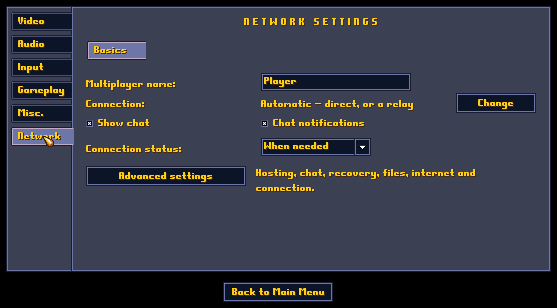
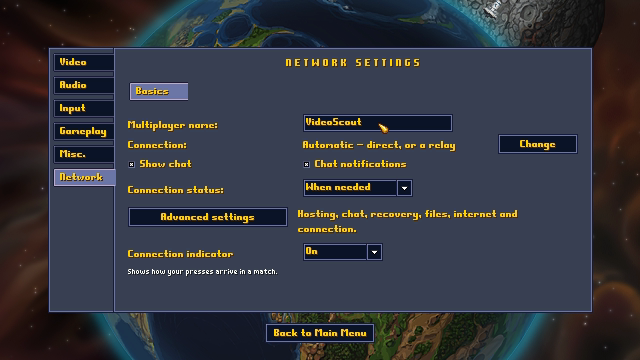
Update the README and the menu pictures for the current build

diff --git a/README.md b/README.md
@@ -2,9 +2,9 @@
 
 # Cortex Modern
 
-**Cortex Command with online multiplayer that feels like single player. Any OS with any OS.**
+**Cortex Command with online multiplayer. Any OS with any OS.**
 
-A community fork of the [Cortex Command Community Project](https://github.com/cortex-command-community/Cortex-Command-Community-Project) that adds internet play: host or join from the main menu, your own soldier answers instantly, nobody waits for anybody's connection, and the mods you already have keep working.
+A fork of the [Cortex Command Community Project](https://github.com/cortex-command-community/Cortex-Command-Community-Project) that adds internet play. Host or join from the main menu, keep the mods you already have.
 
 [![Status: Alpha](https://img.shields.io/badge/status-alpha-orange)](#whats-in-alpha-1)
 [![Version](https://img.shields.io/badge/version-0.1.0--alpha.1-blue)](VERSION.txt)
@@ -18,39 +18,34 @@ A community fork of the [Cortex Command Community Project](https://github.com/co
 ![Meson](https://img.shields.io/badge/Meson-macOS%20%2F%20Linux%20build-39207C?logo=meson&logoColor=white)
 ![MSBuild](https://img.shields.io/badge/Visual%20Studio-Windows%20build-5C2D91?logo=visualstudio&logoColor=white)
 
-<img src="docs/images/match.gif" alt="A two-player match: the network overlay in the corner, the players panel opening on F6" width="800">
+<img src="docs/images/match.gif" alt="A two-player match with the connection badge and the status box in the corner" width="800">
 
-<sub>Recorded by the project's own test recorder on the alpha build. Top right: the network overlay (input delay, route, pace).</sub>
+<sub>Recorded by the game's own frame capture on the current build.</sub>
 
 </div>
 
 ---
 
 > [!NOTE]
-> **Alpha 1 status, October 4.** Playable today, built from source on Windows, macOS and Linux. The full acceptance run on this exact build has not finished yet.
+> **Status, October 10.** Builds and plays on Windows, macOS and Linux. The netcode holds: four machines on three operating systems, one of them on a phone hotspot through the relay, ran 23 minutes with every machine hash-identical every tick at 60 ticks per second. What is still rough is the match itself: placing a brain with the mouse, the buy menu, the rematch screen. Those fixes and the "one laggy player must not stall the others" work are in progress on the `cm-wip/*` branches and land on `cm-dev` as they pass. The first alpha is tagged when a full game over the relay passes with all of that in.
 >
-> **Being fixed right now**
-> - A join refused as "modules" does not say which mod differs.
-> - Memory use in hour-long persistent worlds is being measured.
->
-> **Not proven yet**
-> - On a phone hotspot, two-player matches work on LTE, both with Automatic and with Relay only. Four players, a relay login expiring mid-match and the host leaving mid-match are not proven over mobile data yet.
+> The current build is `cm-dev`; `main` is the snapshot of October 4 and catches up when that first game passes. The pictures below are from `cm-dev`.
 >
 > The whole list is in [Known issues](#known-issues).
 
-## What's new
+## What you get
 
-| | | |
-|---|---|---|
-| 🌐 **Host or join from the menu** | A built-in game list. Host a game, pick it from the list on the other machine, play. No port forwarding to set up. | [How to](#play-in-five-minutes) |
-| ⚡ **Feels like single player** | Your own soldier answers the instant you press. A player with a bad connection or a slow machine never slows anyone else down. | [How it works](#how-it-works) |
-| 🖥 **Windows, macOS and Linux in one match** | Every machine runs the exact same simulation, bit for bit. Mixed-OS matches are a normal case, not a special one. | [How it works](#how-it-works) |
-| 🔁 **Leave and come back** | Drop out, crash, or close the game: the AI holds your seat and your soldiers keep fighting. Rejoin while the match runs. | [Menus](#the-new-menus-and-screens) |
-| 👑 **Host moderation** | The Players panel lists every player, a page at a time when they do not all fit, and why a place is held. While the match runs the host can hand a held seat to a newcomer, remove or ban a player. Nobody loses a seat without the host's click. | [Menus](#the-new-menus-and-screens) |
-| 💾 **Autosave and resume** | The host sets a checkpoint interval for the whole match. A match can be resumed from disk by everyone, even after the host's machine died. | [Menus](#the-new-menus-and-screens) |
-| 🌍 **Persistent worlds** | A match that keeps running while players join and leave. Latecomers watch, then take a seat when one opens. | [How it works](#how-it-works) |
-| 🧩 **Your mods, unchanged** | Mods run exactly as before. Void Wanderers is part of the test set. | [Mods](#mods) |
-| 🔌 **Direct connection first, relay when needed** | Direct peer-to-peer whenever the internet allows it. When it does not, a Cloudflare relay takes over by itself. Nothing to enter. | [Connections](#connections-direct-relay-and-your-options) |
+| | |
+|---|---|
+| **Host or join from the menu** | A built-in game list. Host, pick the game on the other machine, play. No port forwarding. |
+| **Your soldier answers right away** | Your own soldier is drawn from a preview that runs ahead of the network, so a press shows the instant you make it. |
+| **Any OS with any OS** | Every machine runs the exact same simulation, bit for bit. Windows, macOS and Linux in one match is the normal case. |
+| **Leave and come back** | Drop out, crash, close the game: the AI holds your seat and your soldiers keep fighting. Rejoin while the match runs. |
+| **The host stays in charge** | The Players panel shows every seat and why it is held. The host can hand a held seat to a newcomer, kick or ban. Nobody loses a seat without the host's click. |
+| **Autosave and resume** | The host sets a checkpoint interval for the whole match. Everyone can resume it from disk later, even if the host's machine died. |
+| **Persistent worlds** | A match that keeps running while people join and leave. Latecomers watch, then take a seat when one opens. |
+| **Your mods, unchanged** | Mods run as they always did. Void Wanderers is part of the test set. |
+| **Direct first, relay when needed** | Peer-to-peer whenever the internet allows it. When it does not, a Cloudflare relay takes over on its own. Nothing to enter. |
 
 ---
 
@@ -58,18 +53,16 @@ A community fork of the [Cortex Command Community Project](https://github.com/co
 
 > No second player handy? [Run a host and a client side by side on one Windows PC](docs/handtest.md).
 >
-> **Both players need the same Cortex Modern version and the same mods.** The version is printed at the bottom left of the main menu and in `VERSION.txt` beside the game. If a join is refused as "modules", the two `Data` folders differ: the same mods in the same versions on both sides fixes it.
->
-> <img src="docs/images/version-line.png" alt="The version line on the main menu: Community Project v7.0.0, multiplayer 0.1.0-alpha.1 (protocol 5)" width="300">
+> **Both players need the same version and the same mods.** The version is printed at the bottom left of the main menu and in `VERSION.txt` beside the game. If a join is refused as "modules", the two `Data` folders differ: same mods, same versions, on both sides.
 
 <details>
 <summary><b>Windows</b></summary>
 
-1. Get the build. Packaged alpha builds appear on the [Releases](https://github.com/Madreag/cortex-modern/releases) page as they are cut; until then, build from source ([Building](#building)) or take the zip a friend built from the same version.
-2. Unpack anywhere. Start `Cortex Command.exe`. If SmartScreen asks, choose **More info → Run anyway**.
-3. **Host:** Main Menu → **Multiplayer** → type your name → **Host Game** → set the activity, scene and the number of players → **Create Lobby**.
+1. Get the build. Packaged alphas appear on the [Releases](https://github.com/Madreag/cortex-modern/releases) page as they are cut; until then build from source ([Building](#building)) or take a zip a friend built from the same version.
+2. Unpack anywhere, start `Cortex Command.exe`. If SmartScreen asks, **More info → Run anyway**.
+3. **Host:** Main Menu → **Multiplayer** → type your name → **Host Game** → pick the activity, scene and number of players → **Create Lobby**.
 4. **Join:** Main Menu → **Multiplayer** → type your name → **Join Game** → pick the match from the list (or type the host's address and port) → **Connect**.
-5. When everyone is in the lobby, each joining player presses **Ready**, then the host presses **Start Match**. In the match, **F6** (or **Players** in the pause menu) opens the Players panel; the status box in the corner says what is happening, and with the detailed network statistics setting on, it adds input delay, round trip and pace.
+5. In the lobby every joining player presses **Ready**, then the host presses **Start Match**. In the match, **F6** (or **Players** in the pause menu) opens the Players panel. The badge in the corner shows your connection (Good with your round trip, Unsteady, Inputs affected, Reconnecting), and the status box says what is happening, with input delay, round trip and pace when it is set to show them.
 
 </details>
 
@@ -78,7 +71,7 @@ A community fork of the [Cortex Command Community Project](https://github.com/co
 
 1. Get the build (see Windows, step 1). Unpack the app.
 2. On first launch macOS may block an unsigned app: **System Settings → Privacy & Security → Open Anyway**, then launch again.
-3. Host or join exactly as on Windows: **Multiplayer → Host Game** or **Join Game**.
+3. Host or join exactly as on Windows.
 4. The first time you host, macOS asks whether the game may accept incoming connections: allow it.
 
 </details>
@@ -87,50 +80,50 @@ A community fork of the [Cortex Command Community Project](https://github.com/co
 <summary><b>Linux</b></summary>
 
 1. Get the build (see Windows, step 1). Unpack the tarball; if the executable lost its permission, `chmod +x CortexCommand`.
-2. Launch from the unpacked folder so the game finds its `Data` directory.
-3. Host or join exactly as on Windows: **Multiplayer → Host Game** or **Join Game**.
+2. Launch from the unpacked folder so the game finds `Data`.
+3. Host or join exactly as on Windows.
 
 </details>
 
-**Troubleshooting**
+**If something is off**
 
-- *Nobody can see my match.* The game list is served by the directory service at `directory.broserver.com`. If it is unreachable, the host can share its address and port, and players type them into Join Game.
-- *We connect, but the status box says "connected through a relay".* With **Connection** on *Automatic*, your internet did not allow a direct route, so the game connected through the relay instead; with *Relay only* chosen, it always connects this way. It costs nothing. To insist on direct, set **Settings → Network → Connection** to *Direct only* on both machines (it may then fail to connect).
+- *Nobody can see my match.* The game list comes from the directory service at `directory.broserver.com`. If it is down, the host shares its address and port and players type them into Join Game.
+- *The status box says the connection is relayed.* With **Connection** on *Automatic*, no direct route came through, so the game went over the relay. It costs nothing. To insist on direct, set **Settings → Network → Connection** to *Direct only* on both machines (then it may fail to connect at all).
 - *A player's soldier is "held".* Their inputs stopped arriving (lag spike, alt-tab, a crash). The AI plays the seat until they are back. The Players panel (F6) says why.
-- *Everything got slower when someone joined.* It should not. If it did, it is a bug: see [Reporting a bug](#reporting-a-bug).
+- *Everything slowed down when someone joined.* It should not. That is a bug: see [Reporting a bug](#reporting-a-bug).
 
 ---
 
-## The new menus and screens
+## The menus and screens
 
 | | |
 |---|---|
-| <img src="docs/images/main-menu.jpg" alt="The main menu with Multiplayer" width="440"> | **Main menu.** **Multiplayer** sits between Scenario Battle and Saved Games. The version line at the bottom left names the base game, the multiplayer version and the network protocol. |
-| <img src="docs/images/multiplayer.png" alt="Multiplayer: your name, Host a Game and Join a Game" width="440"> | **Multiplayer.** Your name, then **Host a Game** and **Join a Game**, with **Host Saved Match** and **Replays** below. When a match of yours is still running, a block above them offers **Rejoin Match**: your seat is held until the host gives it away. |
-| <img src="docs/images/host-game.png" alt="Host a Game: activity, scene, mode and human players" width="440"> | **Host a Game.** Four rows: the activity with the first line of what it is, the scene, the mode in plain words and how many people play, you included. One line sums the match up and says who can find it. **Create Lobby** opens it; the port, the delay, the router and the listing are behind **Advanced**. |
-| <img src="docs/images/lobby.png" alt="The lobby: players, their state and what happens next" width="440"> | **Lobby.** Every player and AI team with its state, and one sentence saying who is waited for. Players press **Ready** and can take it back. The host presses **Start Match**: at once when everyone is ready, otherwise a 30-second countdown everyone sees starts, and the host can cancel it. A line says who can find the game. |
-| <img src="docs/images/start-countdown.png" alt="The lobby counting down to the start, with Cancel Start" width="440"> | **Start countdown.** The host pressed **Start Match** before everyone was ready: every screen counts down from 30 seconds; the host's names who is still to press **Ready**, and a player who has not pressed it is asked to. The host's button reads **Cancel Start** until the start goes out to the players; opening **Edit setup** stops the count, and the last **Ready** starts the match at once. |
-| <img src="docs/images/join-game.png" alt="Join a Game: the game list" width="440"> | **Join a Game.** The screen is the game list: each game's host, activity and players, whether it is on this network or the internet, and the reason when it cannot be joined. Select a game and press **Join Game**, or double-click it. **Join by address** takes a host's address and port. |
-| <img src="docs/images/seat-request.png" alt="Asking for a seat when every seat is held" width="440"> | **Asking for a seat.** When every seat of a running world is held for its returning players, a newcomer is told so and offered **Apply for a Slot** (the host decides) or **Wait for a Slot**, which counts down while it waits. A player whose own seat is held is offered **Apply to Rejoin**. |
-| <img src="docs/images/host-options-seats.png" alt="Advanced: Players" width="440"> | **Advanced.** The host's full options, on seven pages chosen on the left: Players, Rules, Connection, Timing, Recovery, Files and Session. Changes wait for **Apply**; **Back** leaves them; on the Connection, Timing, Recovery, Files and Session pages a list marks its standard choice **(default)**. **Players** lists each seat with its team and state; **Details** opens a seat. |
-| <img src="docs/images/host-options-connection.png" alt="Advanced: Connection" width="440"> | **Advanced: Connection.** **Game listing** (Public, Unlisted or Local discovery, each saying who can find the game), asking your router to open the port (on by default), the port, **Automatic direct connection** for players behind home routers, and **Relay fallback** when no direct route works. Every row has a one-line hint naming its consequence. |
-| <img src="docs/images/recovery.png" alt="Advanced: Recovery" width="440"> | **Advanced: Recovery.** Automatic match repair; the **Return window** for a dropped player; authenticated rejoin; **Autosave checkpoints** every 60 seconds to 60 minutes, or off; **World history** and the **Catch-up limit** for persistent worlds; **Repair match now** while a match runs. |
-| <img src="docs/images/settings-network.png" alt="Settings: Network, the first view" width="440"> | **Settings → Network.** Your name, your **Connection** (Automatic: direct, or a relay when no direct route works) with **Change**, the chat switches and when the connection status shows. **Advanced settings** opens the rest: delay, chat, recovery, files, the online game list, the STUN list and your own relay. |
-| <img src="docs/images/net-overlay.png" alt="The in-match network overlay" width="440"> | **In the match.** The overlay: input delay in ticks and milliseconds, your route (*via direct* or *via relay*), the slowest peer's round trip, and the pace. **F6** opens the seats panel: held seats and why, applications for a seat, kick and ban. |
-| <img src="docs/images/match-seats.jpg" alt="The seats panel open during a match" width="440"> | **The seats panel.** The match continues while it is open. Chat lines sit at the top of the screen; a toast names what just happened (a player joined, the match paused). |
+| <img src="docs/images/main-menu.png" alt="The main menu with Multiplayer" width="440"> | **Main menu.** **Multiplayer** sits between Scenario Battle and Saved Games. The version line at the bottom left names the base game, the multiplayer version and the network protocol (7 right now). |
+| <img src="docs/images/multiplayer.png" alt="Multiplayer: your name, Host a Game and Join a Game" width="440"> | **Multiplayer.** Your name, then **Host a Game** and **Join a Game**, with **Host Saved Match** and **Replays** below. If a match of yours is still running, **Rejoin Match** appears above them: your seat is held until the host gives it away. |
+| <img src="docs/images/host-game.png" alt="Host a Game: activity, scene, mode and human players" width="440"> | **Host a Game.** Four rows: the activity, the scene, the mode, how many people play. One line sums the match up and says who can find it. **Create Lobby** opens it; the port, the delay, the router and the listing sit behind **Advanced**. |
+| <img src="docs/images/lobby.png" alt="The lobby: players, their state and what happens next" width="440"> | **Lobby.** Every player and AI team with its state, and one line saying who is waited for. Players press **Ready** and can take it back. The host presses **Start Match**: at once when everyone is ready, otherwise a 30-second countdown that everyone sees and the host can cancel. |
+| <img src="docs/images/start-countdown.png" alt="The lobby counting down to the start, with Cancel Start" width="440"> | **Start countdown.** The host pressed **Start Match** before everyone was ready. Every screen counts down from 30; the host's button reads **Cancel Start** until the start goes out; the last **Ready** starts the match at once. |
+| <img src="docs/images/join-game.png" alt="Join a Game: the game list" width="440"> | **Join a Game.** The game list: host, activity, players, LAN or internet, and the reason when a game cannot be joined. Select one and press **Join Game**, or double-click it. **Join by address** takes a host's address and port. |
+| <img src="docs/images/seat-request.png" alt="Asking for a seat when every seat is held" width="440"> | **Asking for a seat.** When every seat of a running world is held for its returning players, a newcomer can **Apply for a Slot** (the host decides) or **Wait for a Slot**. A player whose own seat is held gets **Apply to Rejoin**. |
+| <img src="docs/images/host-options-seats.png" alt="Advanced: Players" width="440"> | **Advanced.** The host's full options on seven pages: Players, Rules, Connection, Timing, Recovery, Files and Session. Changes wait for **Apply**; **Back** drops them; lists mark their standard choice **(default)**. **Players** lists each seat with its team and state. |
+| <img src="docs/images/host-options-connection.png" alt="Advanced: Connection" width="440"> | **Advanced: Connection.** **Game listing** (Public, Unlisted or Local discovery), asking your router to open the port (on by default), the **Game port**, **Automatic connection** for players behind home routers, and the **Match relay** (Off, Game service, Custom relay). Every row has a one-line hint. |
+| <img src="docs/images/recovery.png" alt="Advanced: Recovery" width="440"> | **Advanced: Recovery.** Automatic match repair, the **Return window** for a dropped player, authenticated rejoin, **Autosave checkpoints** every 60 seconds to 60 minutes or off, **World history** and the **Catch-up limit** for persistent worlds, **Repair match now** while a match runs. |
+| <img src="docs/images/settings-network.png" alt="Settings: Network" width="440"> | **Settings → Network.** Your name, your **Connection** (Automatic, Direct only, Relay only), the chat switches and when the connection badge shows. **Advanced settings** has the rest: delay, recovery, files, the online game list, the STUN list and your own relay. |
+| <img src="docs/images/net-overlay.png" alt="In the match: the connection badge and the status box" width="440"> | **In the match.** The badge in the corner: Good with your round trip in ms, Unsteady, Inputs affected, or Reconnecting. The status box (Off, When needed or Always) says what is happening: input delay in ticks and milliseconds, the round trip to the host or the slowest peer, and the pace in ticks per second. |
+| <img src="docs/images/match-seats.png" alt="The Seats panel open during a match" width="440"> | **The Seats panel (F6).** Each player with their connection quality, held seats and why, applications for a seat, kick and ban. The match keeps running while it is open. |
 
-Not pictured: a seat's details, the joined player's read-only **Match details**, **Replays** and **Host Saved Match**, the post-match summary with rematch, and the **Rejoin Match** offer on the Multiplayer menu when a match of yours is still running.
+Not pictured: a seat's details, the joined player's read-only **Match details**, **Replays**, **Host Saved Match**, the post-match summary with rematch.
 
 ---
 
 ## How it works
 
-Every player runs the same deterministic simulation. Only controller inputs cross the network. Your own soldier is shown through an instant-response copy of the match, so your presses are on screen immediately; a few frames later the real match confirms them. This is the architecture the Community Project asked for: controllers on the wire, AI on every machine, no fixed-point math, standardized floating point so Windows, macOS and Linux agree to the bit.
+Every player runs the same deterministic simulation. Only controller inputs cross the network, never terrain or objects. Your own soldier is drawn from a preview that runs up to 20 ticks ahead of the lockstep, so your presses show immediately; the real match confirms them a few frames later. This is the architecture the Community Project asked for: controllers on the wire, AI on every machine, no fixed-point math, standardized floating point so Windows, macOS and Linux agree to the bit.
 
 ```mermaid
 flowchart LR
     subgraph You["Your machine"]
-        I[Your input] --> IRC[Instant-response copy<br/>shows your soldier now]
+        I[Your input] --> IRC[Preview<br/>shows your soldier now]
         I --> L[Lockstep match<br/>runs when every input is in]
     end
     subgraph Them["Each other player"]
@@ -141,7 +134,9 @@ flowchart LR
     L <-. identical state, every frame .-> TL
 ```
 
-**A laggy player never slows the others.** If a player's inputs stop arriving past a bound the host sets, that player's seat is handed to the AI on every machine at the same frame, and the match goes on. When their inputs return, they catch up privately and take the seat back. Nobody else feels a thing.
+**Input delay.** Inputs are sent for a tick a little in the future, sized per connection from its round trip plus a jitter margin and resized as the link changes (about 10 ticks at 80 ms). Each packet carries the last few ticks of inputs again, so a lost packet costs nothing. As long as inputs land inside that window, nobody waits on the wire.
+
+**A laggy player.** Today, when a player's inputs stop past the window, the others wait, and after five seconds of silence that seat is handed to the AI on every machine at the same frame and the match goes on. The piece being finished now shortens that wait to a few ticks, bridges the seat silently, and brings the player back on their own once their inputs return, so a bad connection is that player's problem and nobody else's.
 
 ```mermaid
 sequenceDiagram
@@ -158,7 +153,7 @@ sequenceDiagram
     R->>H: relayed traffic, a few ms extra
 ```
 
-**Connections.** The directory service lists matches and mints short-lived relay credentials, so the game never holds a long-lived key. Connections try a direct route first (three public STUN servers are preconfigured). When no direct route completes, the Cloudflare relay carries the match. You set nothing. If you want, **Settings → Network** lets you force *Direct only* or *Relay only*, change the STUN list, or point at your own relay server. Hosts can run their own relay too: see [`docs/turn-relay.md`](docs/turn-relay.md).
+**Connections.** The directory service lists matches and mints short-lived relay credentials, so the game never holds a long-lived key. A connection tries a direct route first (three public STUN servers are preconfigured). When no direct route completes, the Cloudflare relay carries the match. You set nothing. **Settings → Network** can force *Direct only* or *Relay only*, change the STUN list, or point at your own relay. Running your own relay: [`docs/turn-relay.md`](docs/turn-relay.md).
 
 ---
 
@@ -166,46 +161,36 @@ sequenceDiagram
 
 | Setting | Where | What it does |
 |---|---|---|
-| **Connection: Automatic** (default) | Settings → Network | Direct first; the relay only when no direct route completes. Best performance when direct works, no setup when it does not. |
+| **Connection: Automatic** (default) | Settings → Network | Direct first; the relay only when no direct route completes. |
 | **Connection: Direct only** | Settings → Network | Never uses a relay. Lowest latency; may fail behind strict routers. |
-| **Connection: Relay only** | Settings → Network | Always relays. Use when direct connections keep dropping. |
+| **Connection: Relay only** | Settings → Network | Always relays. For when direct connections keep dropping. |
 | **STUN servers** | Settings → Network | How your public address is discovered. Three public servers preconfigured, editable. |
 | **Your own relay** | Settings → Network; Host a Game → Advanced → Connection | A fixed relay address, username and password, for players who run their own TURN server. |
-| **Automatic direct connection (STUN)** | Host a Game → Advanced → Connection | Lets players behind home routers reach the host's match directly. Off means players need the host's port forwarded. |
-| **Relay fallback (TURN)** | Host a Game → Advanced → Connection | Off, **Game service** (the default: the directory's relay, Cloudflare when configured), or **Custom relay**. |
-
----
-
-## What makes this different
-
-- **Single-player feel over the internet.** Tested with 100 and 200 ms of artificial lag plus jitter and packet loss: your own input is never delayed, and the fast player never waits for the slow one.
-- **Cross-platform lockstep that actually holds.** The simulation is bit-identical across Windows, macOS and Linux, checked by hashing every subsystem every frame on every machine in the test set.
-- **Nothing is lost when something goes wrong.** Drops, crashes, host loss, a dead host machine: the AI holds seats, the match migrates to a new host, checkpoints resume from disk, and players rejoin while play continues.
-- **The host stays in charge.** Seats, applications, kick, ban, autosave, slow-player policy, repair policy: all host options, each with a hint.
-- **Mods are untouched.** No opt-in flags, no patched mods, no rewrites. The engine was fixed wherever a mod and multiplayer disagreed.
+| **Automatic connection** | Host a Game → Advanced → Connection | Lets players behind home routers reach the host directly (STUN). Off means the host's port must be forwarded. |
+| **Match relay** | Host a Game → Advanced → Connection | Off, **Game service** (the default: the directory's relay) or **Custom relay** (TURN). |
 
 ---
 
 ## Mods
 
-Existing mods work unchanged. Scripts, saves and data files behave as they do in the Community Project build this fork is based on. Where the 7.0 base had removed script functions that older mods still call, this fork keeps those names working with their old meaning (the functions Void Wanderers uses are covered; the full set of old names is on the roadmap).
+Mods work unchanged. Scripts, saves and data files behave as they do in the Community Project build this fork is based on. Where the 7.0 base removed script functions that older mods still call, this fork keeps those names working with their old meaning (the ones Void Wanderers uses are covered; the full set is on the roadmap).
 
-Void Wanderers, the most-played mod, is part of the test set: it is played in single player and in multiplayer on every machine before a build ships.
+Void Wanderers, the most-played mod, is part of the test set: it is played in single player and in multiplayer before a build ships.
 
 ---
 
 ## What's in Alpha 1
 
-| Feature | Proof in the test set |
+| Feature | How it is tested |
 |---|---|
-| Two to four players over the internet, host or join from the menu | Multi-machine matches on five machines and three operating systems |
-| Your own input never delayed; a laggy player stalls nobody | Feel measurements at 100 and 200 ms with jitter and loss |
-| Leave, crash, rejoin; the AI holds the seat | Drop, rejoin and repair scenes, on video |
+| Two to four players over the internet, host or join from the menu | Matches across five machines and three operating systems; the last one 23 minutes, four machines, host on a phone hotspot through the relay, every tick hash-identical |
+| Your own input shown immediately | The local preview, measured with 100 and 200 ms of artificial lag plus jitter and loss |
+| Leave, crash, rejoin; the AI holds the seat | Drop, rejoin and repair scenes with frame capture |
 | Host loss: the match continues on a new host | Host-loss and migration scenes |
 | Checkpoints and resume from disk for the whole match | Resume scenes; both peers killed and reloaded |
 | Persistent worlds with late joiners and watchers | World join, world restart and segment tests |
-| Host moderation: seats, applications, kick, ban | Moderation scenes, on video |
-| Direct connection with STUN; Cloudflare relay fallback; your own relay | Relay comparison and relay-only matches, and a phone-hotspot session on LTE |
+| Host moderation: seats, applications, kick, ban | Moderation scenes with frame capture |
+| Direct connection with STUN; Cloudflare relay fallback; your own relay | Relay comparison, relay-only matches, a relay soak with credential renewal, the hotspot match |
 | Saves from the original game and from earlier builds load, play and save again | Old-save tests on Windows and Linux |
 | Windows, macOS and Linux in one match | Cross-platform determinism tests on every build |
 | Mods unchanged, Void Wanderers tested | The mod battery and the Void Wanderers scenes |
@@ -214,20 +199,24 @@ Void Wanderers, the most-played mod, is part of the test set: it is played in si
 
 ## Known issues
 
-Alpha means alpha. Everything below is tracked; items marked *being fixed* have someone on them today.
+Alpha means alpha. Everything below is tracked; *being fixed* means someone is on it now.
 
 | Issue | What you would see | State |
 |---|---|---|
-| A refused join says only "modules" | Two players whose game data differ by a single byte cannot join each other, and the message does not say which mod differs. Both need identical `Data` folders. | **Being fixed** |
-| A relayed connection can give up early | Setting up a relayed connection over a slow path can take longer than the 10 seconds it is given. Trying again, or Automatic, gets through. | **Being fixed** |
-| Hour-long worlds | Memory use grows over a long persistent world. Being measured to tell a leak from a cache that stops growing. | **Being measured** |
-| Mobile data | Two players: proven on LTE, direct and through the relay. Four players, relay login renewal and host loss over mobile data: not proven yet. | Being tested |
+| Placing a brain by mouse in a match | A plain click on a valid spot does not always install the brain; the message does not say why. | **Being fixed** |
+| The buy menu in a match | The pie menu may show only a locked bag, and Buy may not open for the soldier you control. | **Being fixed** |
+| The rematch screen | After a match the host sees a "Start Match starts in 30 s" line while no countdown runs. | **Being fixed** |
+| Closing the game after a match | On one platform the game did not exit within 10 seconds of closing the window. | **Being fixed** |
+| A laggy player can stall the others | Inputs that stop past the delay window make the others wait, up to five seconds, before the AI takes the seat. | **Being fixed** |
+| A refused join says only "modules" | Two players whose game data differ by a single byte cannot join each other, and the message does not name the mod. Both need identical `Data` folders. | Open |
+| Autosave on a slow host | With checkpoints on, a 2014-class 4-core host pauses everyone about 40 ms once per save. The target is one frame. | **Being fixed** |
+| Hour-long worlds | Memory use grows over a long persistent world. Being measured to tell a leak from a cache that stops growing. | Being measured |
+| Mobile data | Four players with the host on LTE through the relay: proven for 23 minutes, with the relay login renewing mid-match. Host loss over mobile data: not proven yet. | Being tested |
 | Your stop may show a fraction late, rarely | On a joined machine, in moments that depend on randomness (debris at your feet), your own stop can show one input delay late: 1 to 3 times in 32 in a heavy-debris test. | Under review |
-| A joiner can pause a busy world for a moment | When someone joins a busy persistent world on a loaded host, everyone can see a pause of about a third of a second while the snapshot is taken. | Next alpha |
+| A joiner can pause a busy world for a moment | Joining a busy persistent world on a loaded host shows everyone a pause of about a third of a second while the snapshot is taken. | Next alpha |
 | Mac hosts write checkpoints slowly | A joiner of a Mac-hosted world waits about 5 seconds for the snapshot instead of 2. | Next alpha |
-| Held seat between rounds | A newcomer cannot apply for a dropped player's seat between rounds, only during play. | Next alpha |
+| Held seat between rounds | A newcomer cannot apply for a dropped player's seat between rounds, only during play. | **Being fixed** |
 | Watching a brand-new world | A watcher joining a world created moments ago gets no status line. | Next alpha |
-| Autosave on a slow host | A 2014-class host with checkpoints on can give others a brief pause once per save. | Next alpha |
 
 ---
 
@@ -237,9 +226,9 @@ Public names first; the names used inside the project in parentheses.
 
 | Release | Contents |
 |---|---|
-| **Alpha 1** (V1) `0.1.0-alpha.1` | Everything in [What's in Alpha 1](#whats-in-alpha-1), with zero known bugs on the full test run. **In progress.** |
+| **Alpha 1** (V1) `0.1.0-alpha.1` | Everything in [What's in Alpha 1](#whats-in-alpha-1). Tagged when one complete game over the relay passes with the in-match fixes in, every player action having gone through the scripted scenes on two machines first. **In progress.** |
 | **Alpha 2** (V1.1) `0.2.0-alpha.N` | The known issues above; bandwidth per player measured and shown in the host options; the Wait and Pause slow-player policies; a sound check across players; hour-long matches with checkpoints; faster checkpoint compression for Mac hosts; Mac and Linux packaging; the directory service on a dedicated host; short room codes for private games. |
-| **Beta** (V1.5) `0.3.0-beta.N` | More than four players (up to 32 in one match); team members with the Brains option; a per-mod compatibility profile; CI-built, signed packages. |
+| **Beta** (V1.5) `0.3.0-beta.N` | More than four players (up to 32); team members with the Brains option; a per-mod compatibility profile; CI-built, signed packages. |
 | **1.0** | The released product. |
 | **1.1** (V2) | Other players' soldiers shown where they will be, not where they were: presentation prediction without rewinding the match. The full set of old mod function names. |
 | **Later** (V3) | True rollback (predicting other players' inputs and re-simulating). Only if 1.1 is not enough. |
@@ -248,24 +237,38 @@ Public names first; the names used inside the project in parentheses.
 
 ## Branches and releases
 
-- `main`: the alpha. A plain clone gives you this branch, and this README describes it.
-- `cm-dev`: the integration branch. Every change lands here first, reviewed and built, and `main` is fast-forwarded from it.
-- `development`: the Community Project's upstream branch, untouched, kept for merging their work in.
+- `main`: the snapshot a plain clone gives you (October 4 as of this writing). It moves only when a full game passes on `cm-dev`.
+- `cm-dev`: the integration branch. Every change lands here first, reviewed and built on all three platforms.
+- `cm-wip/*`: work in progress, one branch per piece: `relay-foolproof` (the laggy-player work), `restore-cost` (the autosave pause), `in-match-fight15` (the in-match fixes).
+- Upstream's `development` is merged in from the Community Project's repository as needed.
 - Releases will be tags with packages for the three operating systems, checksums and the matching source. Pre-releases are flagged, so "latest" never points at an alpha.
 
 ---
 
 ## Building
 
-Multiplayer needs the GameNetworkingSockets library (GNS). A build without it is single-player only.
+Multiplayer needs the GameNetworkingSockets library (GNS), built with the small patch in `external/patches/` (it keeps a relay login alive for the length of a match). A build without GNS is single-player only.
+
+<details>
+<summary><b>GNS, all platforms</b></summary>
+
+`external/patches/build_gns_turn.py` fetches the pinned GNS checkout, applies `gns-turn-lifetime.patch` and builds and installs it:
+
+```sh
+python external/patches/build_gns_turn.py --repo <this tree> --source <where to clone GNS> --build <build dir> --install <install prefix> --out <log dir>
+```
+
+On Windows pass `--dependency <vcpkg x64-windows install dir>` for protobuf, Abseil and OpenSSL. The install prefix is what `GNS_ROOT` (Windows) or `-Dgns_root` (meson) point at.
+
+</details>
 
 <details>
 <summary><b>Windows (Visual Studio)</b></summary>
 
-1. Install [Visual Studio Community](https://visualstudio.microsoft.com/downloads/) 2019 (16.10 or newer) or 2022 with the C++ workload, and both x86 and x64 [Visual C++ Redistributables](https://support.microsoft.com/en-us/help/2977003/the-latest-supported-visual-c-downloads).
+1. Install [Visual Studio 2022](https://visualstudio.microsoft.com/downloads/) with the C++ workload (the Build Tools alone work), and the x64 [Visual C++ Redistributable](https://support.microsoft.com/en-us/help/2977003/the-latest-supported-visual-c-downloads).
 2. Clone this repository. The default branch, `main`, is the alpha.
-3. [Build GNS with its vcpkg dependencies](https://github.com/ValveSoftware/GameNetworkingSockets/blob/master/BUILDING.md) for `x64-windows`. Point `GNS_ROOT` at the GNS install prefix and `GNS_DEP_ROOT` at vcpkg's `x64-windows` install directory (`RTEA.vcxproj` reads them). The project links `GameNetworkingSockets_s.lib` statically, with shared protobuf, Abseil and OpenSSL dependencies.
-4. Copy `fmod.dll` from `external\lib\win`, and `libprotobuf.dll`, `abseil_dll.dll` and `libcrypto-3-x64.dll` from `%GNS_DEP_ROOT%\bin`, into the root directory beside `Cortex Command.exe`. Use DLLs from the same dependency build used at link time. A static GNS build does not need `GameNetworkingSockets.dll`.
+3. Build GNS as above. Set `GNS_ROOT` to the install prefix and `GNS_DEP_ROOT` to vcpkg's `x64-windows` directory (`RTEA.vcxproj` reads both). GNS links statically; protobuf, Abseil and OpenSSL are shared.
+4. Copy `fmod.dll` from `external\lib\win`, and `libprotobuf.dll`, `abseil_dll.dll` and `libcrypto-3-x64.dll` from `%GNS_DEP_ROOT%\bin`, next to `Cortex Command.exe`. Use the DLLs from the same dependency build you linked against.
 5. Open `RTEA.sln`, choose x64 and a configuration, build and run.
    - `Debug Full`: debugging with all visuals (builds fast, runs slow).
    - `Debug Minimal`: debugging with visuals off.
@@ -277,16 +280,16 @@ Multiplayer needs the GameNetworkingSockets library (GNS). A build without it is
 <details>
 <summary><b>Linux and macOS (meson)</b></summary>
 
-Dependencies: `meson` (0.60+), `ninja`, a C++17 compiler (GCC 11+ or Clang 13+), and the libraries the Community Project lists: `allegro4`, `boost`, `flac`, `libpng`, `luajit`, `minizip`, `lz4`, `libtbb`, `fmod`, plus GNS for multiplayer.
+Dependencies: `meson` (0.60+), `ninja`, a C++20 compiler (GCC 13 or Clang 18 are what the test machines use), and the libraries the Community Project lists: `allegro4`, `boost`, `flac`, `libpng`, `luajit`, `minizip`, `lz4`, `libtbb`, `fmod`, plus GNS for multiplayer.
 
 ```sh
 git clone https://github.com/Madreag/cortex-modern.git
 cd cortex-modern
-meson setup build --buildtype=release
+meson setup build --buildtype=release -Dwith_gns=enabled -Dgns_root=<GNS install prefix>
 ninja -C build
 ```
 
-Run from the repository root so the game finds `Data`. `meson_options.txt` lists the options (install type, debug symbols).
+On macOS point `CC`/`CXX` at Homebrew's gcc-13 and put protobuf's and OpenSSL's `pkgconfig` directories on `PKG_CONFIG_PATH` before `meson setup`. Run from the repository root so the game finds `Data`. `meson_options.txt` lists the options.
 
 </details>
 
@@ -313,8 +316,8 @@ Open an issue with:
 
 1. The version line from the bottom left of the main menu (also `VERSION.txt` beside the game).
 2. Your operating system and the other players' operating systems.
-3. The connection mode the overlay showed: *via direct* or *via relay*.
-4. **Save Diagnostics** (the button under the Multiplayer and Host screens, also in Settings → Network): attach the diagnostics it saves. Check the bundle for anything you consider private before attaching it.
+3. What the badge showed, and whether the status box said the connection was relayed.
+4. **Save Diagnostics** (the button under the Multiplayer and Host screens, also in Settings → Network): attach what it saves. Check the bundle for anything you consider private before attaching it.
 
 For anything that could be used against other players, use the private route in [SECURITY.md](SECURITY.md) instead of a public issue.
 
